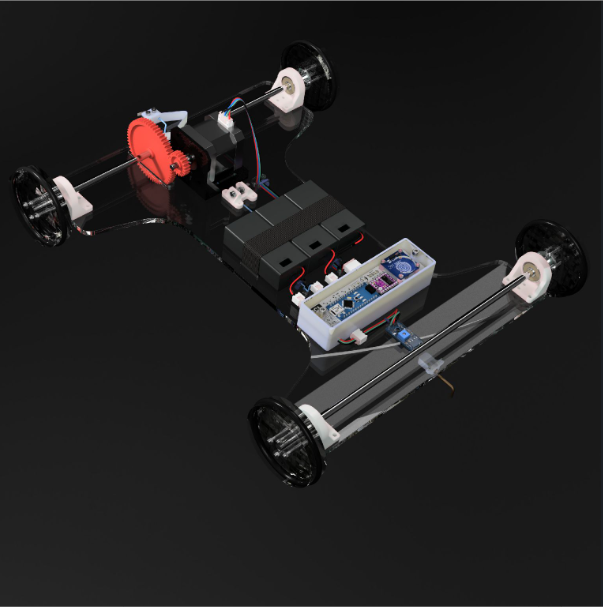
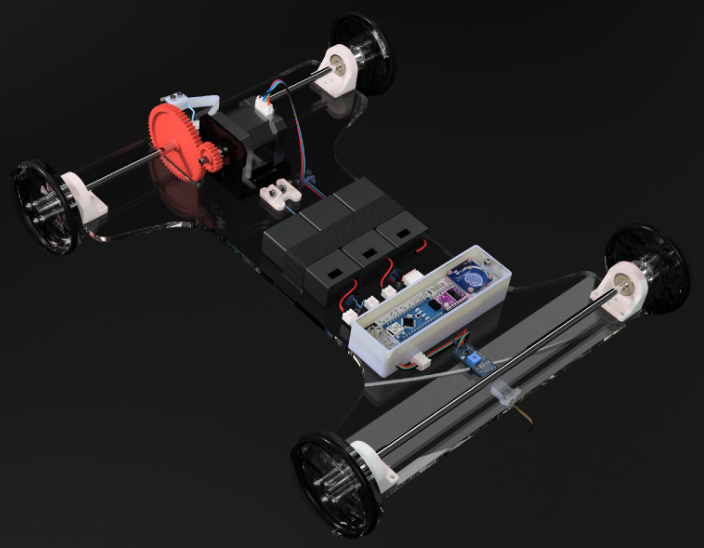
IMECHE Image Link

Changed region(s): [[0.0, 0.031, 1.0, 1.0], [0.4179, 0.5584, 0.4478, 0.5894]]

diff --git a/_pages/imeche_challenge.md b/_pages/imeche_challenge.md
@@ -7,6 +7,31 @@ permalink: /extracurricular_projects/imeche_challenge/
 <!--Page Title-->
 <h1 style="text-align: center;">IMECHE Design Challenge</h1>
 
+
 <div style="display: flex; gap: 20px; justify-content: center; align-items: flex-start; flex-wrap: wrap;">
-  <img src="assets/images/CAD.png" alt="RoboDK Simulation" style="width: 300px; border-radius: 10px; box-shadow: 0 4px 8px rgba(0,0,0,0.2);">
+
+  <img src="{{ page.image | relative_url }}" alt="CAD Design"
+       style="height: 300px; width: auto; box-shadow: 0 4px 8px rgba(0,0,0,0.2);">
+
+  <img src="{{ '/assets/images/IMECHE_Pic1.png' | relative_url }}"
+       style="height: 300px; width: auto; box-shadow: 0 4px 8px rgba(0,0,0,0.2);">
+
+  <img src="{{ '/assets/images/Winning_Pic.png' | relative_url }}"
+       style="height: 300px; width: auto; box-shadow: 0 4px 8px rgba(0,0,0,0.2);">
+
+  <!-- YouTube video embed -->
+  <div style="width: 300px; height: 300px; position: relative; box-shadow: 0 4px 8px rgba(0,0,0,0.2);">
+    <iframe
+      src="https://www.youtube.com/embed/-H2SYbATgDw"
+      frameborder="0"
+      allow="accelerometer; autoplay; clipboard-write; encrypted-media; gyroscope; picture-in-picture"
+      allowfullscreen
+      style="position: absolute; top: 0; left: 0; width: 100%; height: 100%; border: none;">
+    </iframe>
+  </div>
+
 </div>
+
+<p style="margin-top: 30px; font-size: 14px;">
+The IMECHE Design Challenge is an annual competition, where teams are presented with a different design task each year. Our year were tasked to create a repeatable target detecting vehicle. The vehicle was required to traverse on 1m wide lane over a range of distances from 1.4m - 4.0m. 2 targets where placed, where the vehicle had to start on the first target, approach a 0.3m vertical wall, return back to the first target adn then stop on the second target placed anywhere within the longitudinal range. 
+</p>
